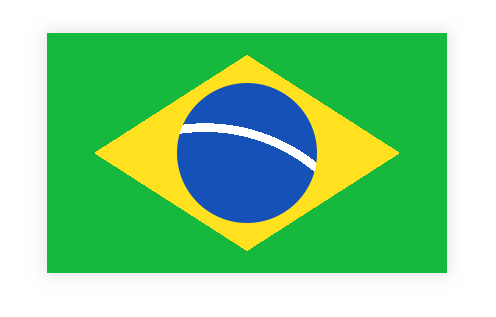
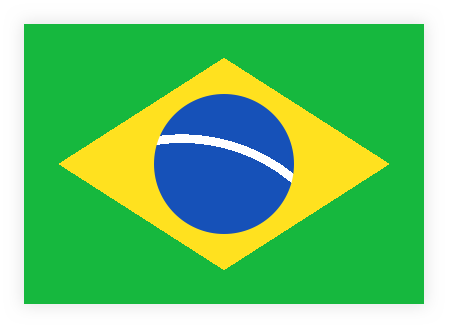
Size updated

diff --git a/Flags/Brazil.html b/Flags/Brazil.html
@@ -6,17 +6,17 @@
 		#brazil {
 			margin: 150px;
 			width: 400px;
-			height: 240px;
+			height: 280px;
 			position: relative;
 			box-shadow: 0px 0px 15px 2px #e5e5e5;
 			background-color: #FFE11F;
 			background-image: 
-			-webkit-linear-gradient(57.346deg,
+			-webkit-linear-gradient(32.6538deg,
 				#16B83E 30.2142%,
 				transparent 30.2142%,
 				transparent 69.7857%,
 				#16B83E 69.7857%),
-			-webkit-linear-gradient(122.654deg,
+			-webkit-linear-gradient(-32.6538deg,
 				#16B83E 30.2142%,
 				transparent 30.2142%,
 				transparent 69.7857%,
